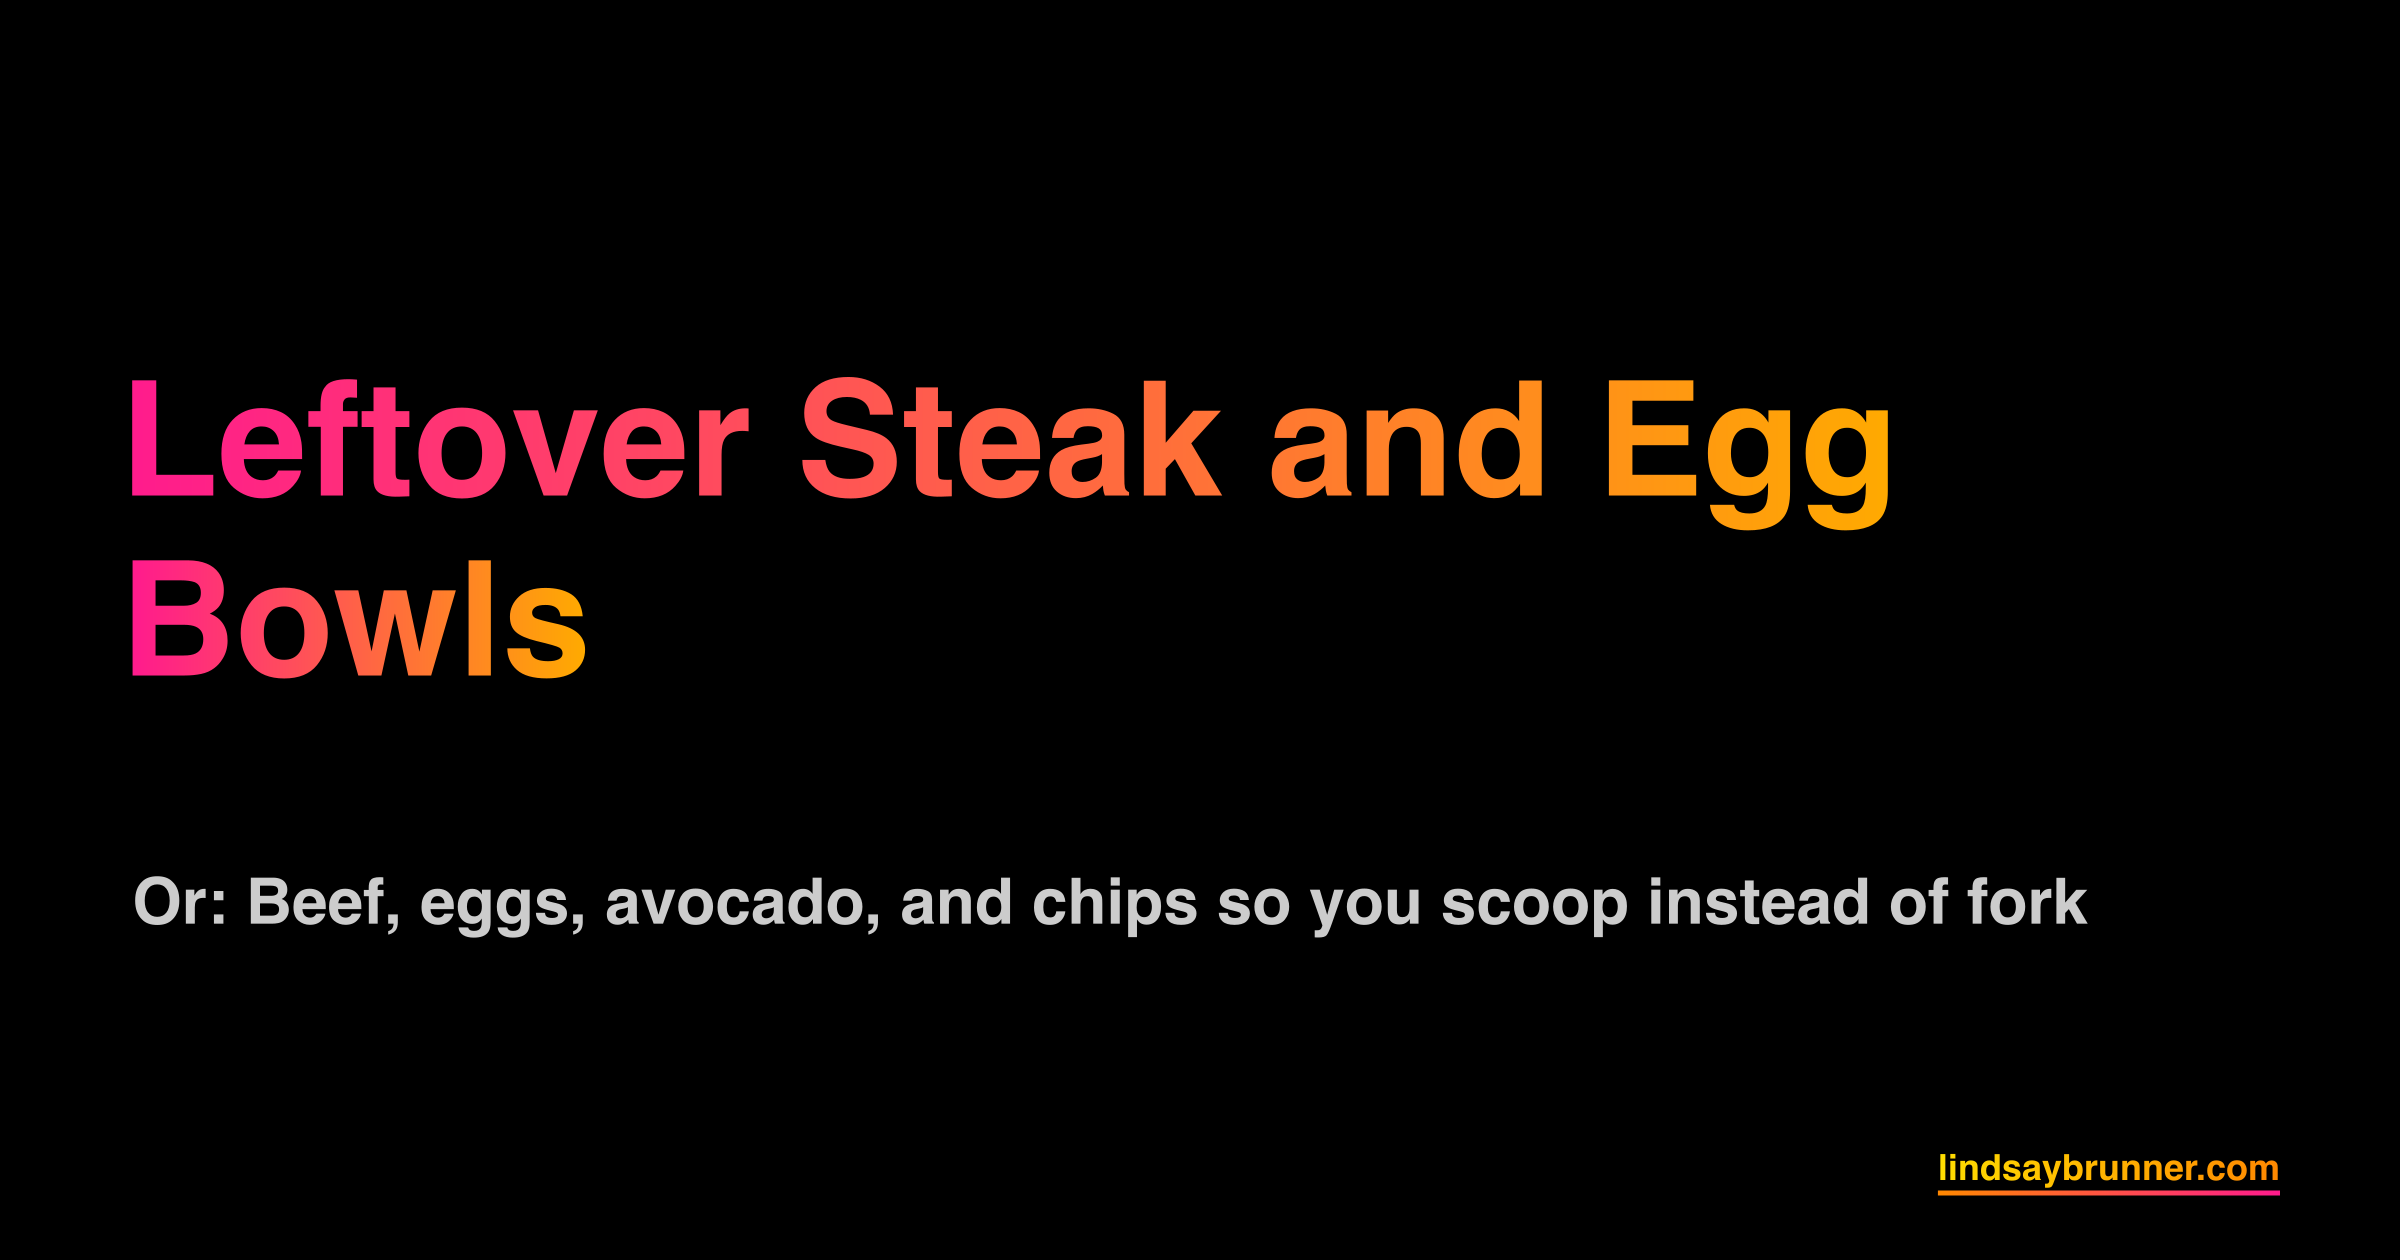
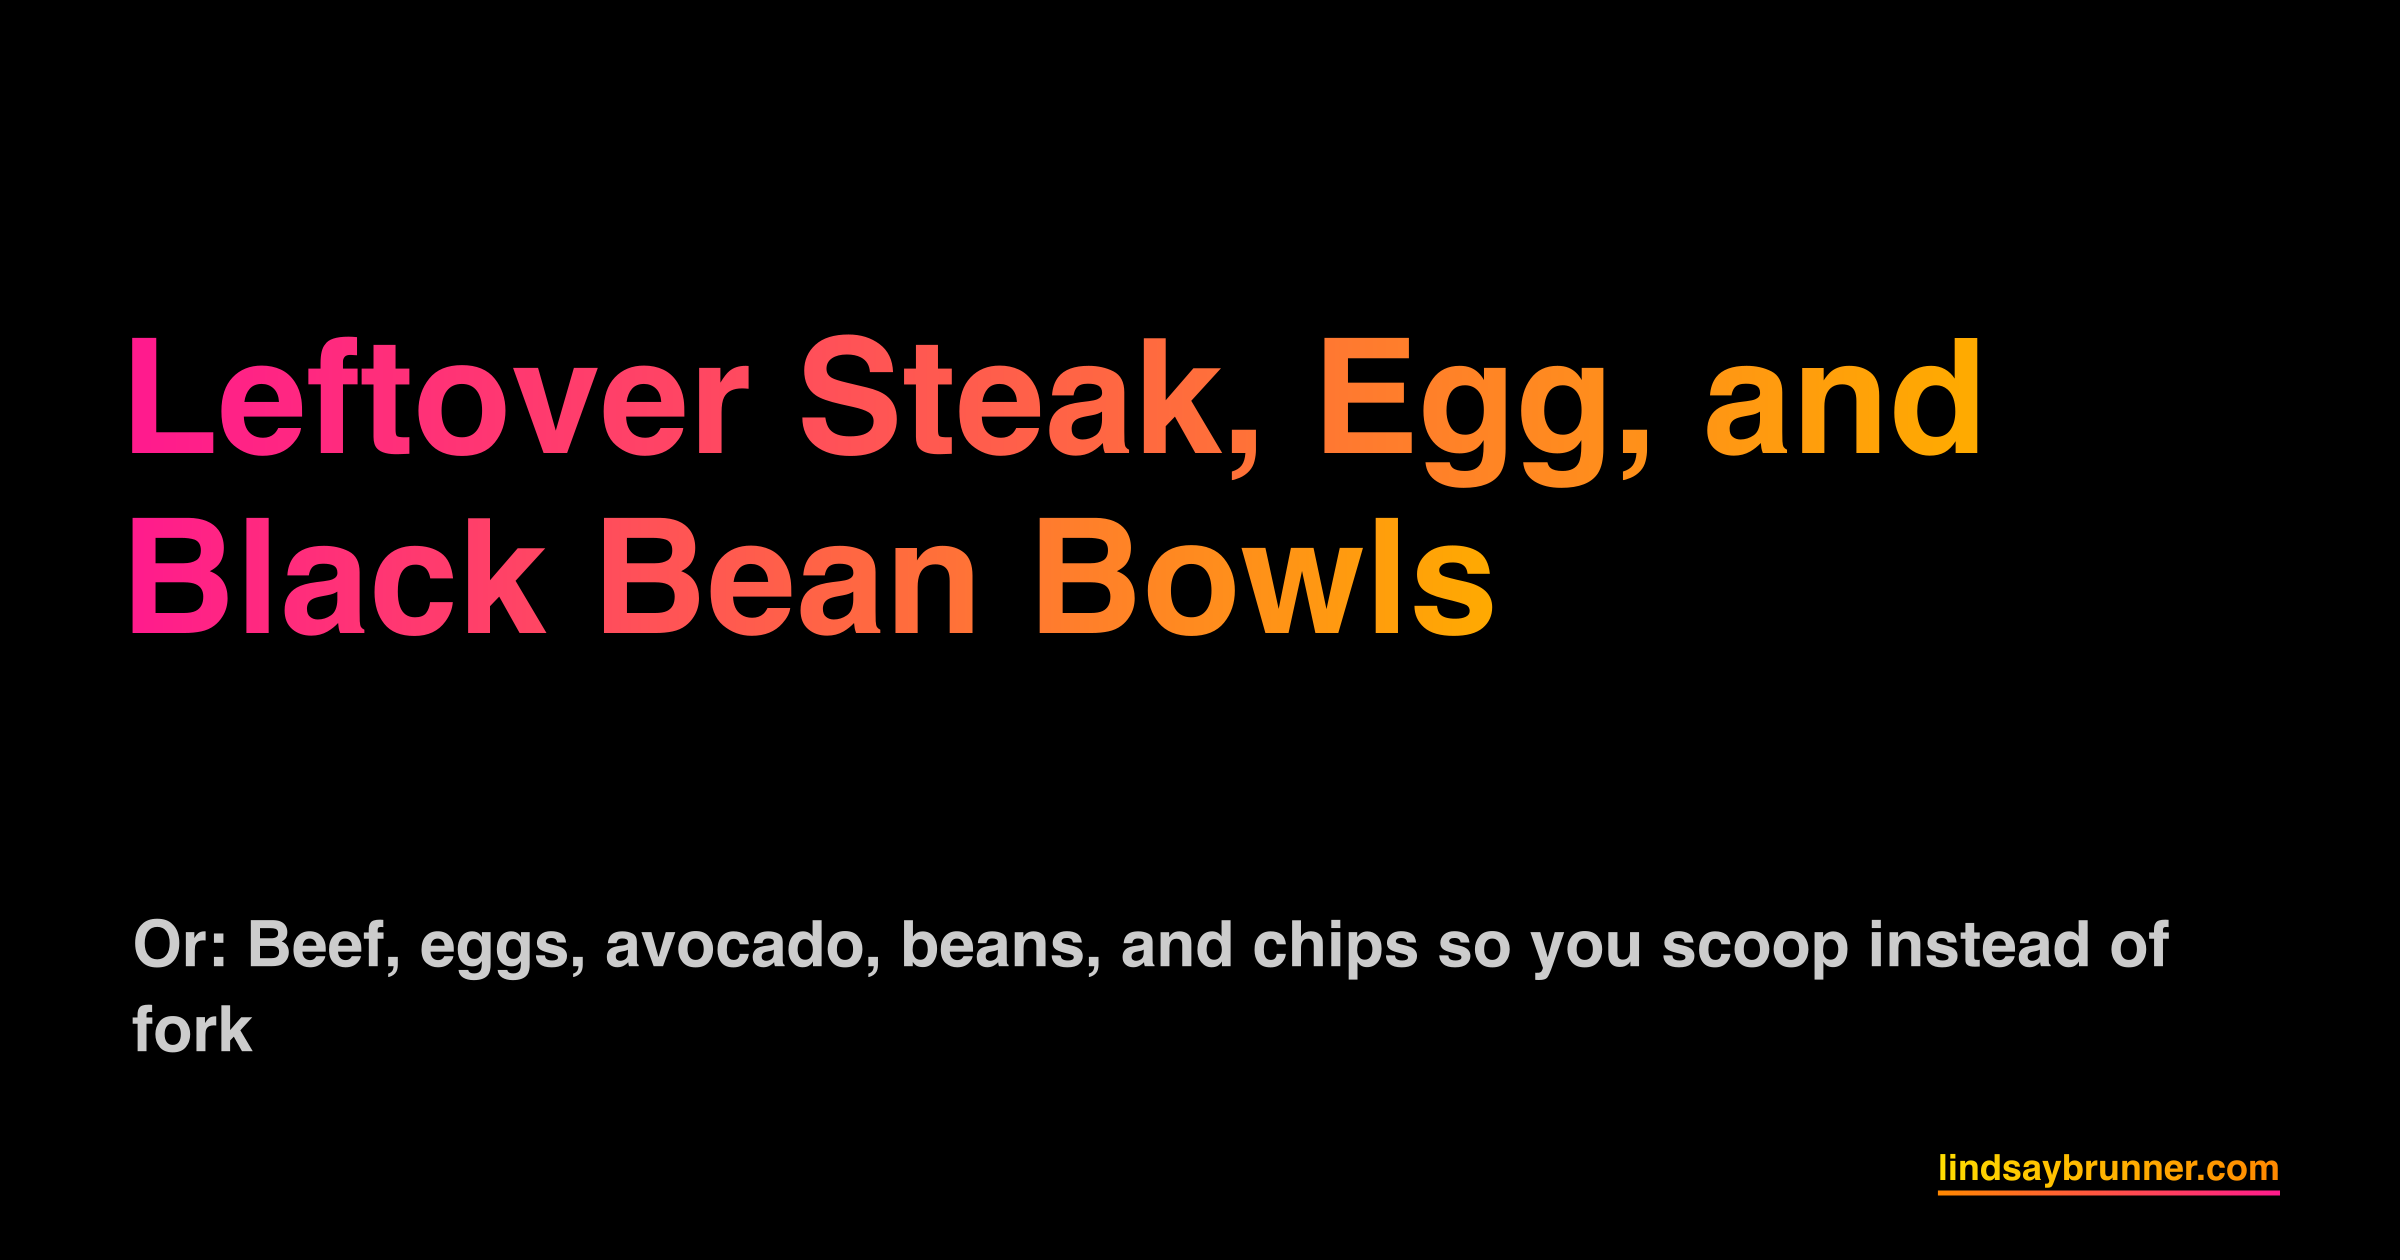
Leftover steak bowl: add black beans, separate pan, updated OG image

diff --git a/content/recipes/recipe-leftover-steak-egg-bowls.md b/content/recipes/recipe-leftover-steak-egg-bowls.md
@@ -1,14 +1,14 @@
 ---
-title: "Leftover Steak and Egg Bowls"
+title: "Leftover Steak, Egg, and Black Bean Bowls"
 date: 2026-02-08
 slug: "recipe-leftover-steak-egg-bowls"
-subtitle: "Or: Beef, eggs, avocado, and chips so you scoop instead of fork"
-description: "Beef and eggs as a fat-protein pairing with avocado, salsa, and sturdy tortilla chips. Warm the steak, keep the eggs soft, then assemble and scoop."
+subtitle: "Or: Beef, eggs, avocado, beans, and chips so you scoop instead of fork"
+description: "Beef and eggs with black beans, avocado, salsa, and chips. Warm the steak, soft eggs, build beans with acid, then assemble and scoop."
 draft: false
 social_image: "/images/social/recipe-leftover-steak-egg-bowls-og.png"
 prepTime: "PT10M"
-cookTime: "PT15M"
-totalTime: "PT25M"
+cookTime: "PT20M"
+totalTime: "PT30M"
 recipeYield: "2-4 bowls"
 recipeCategory: "Main Course"
 recipeCuisine: "American"
@@ -16,8 +16,10 @@ dietary: ["gluten-free", "dairy-free"]
 recipeIngredient:
   - "About 1½ lb cooked steak, ideally picanha, sliced thin against the grain"
   - "4 to 6 eggs, depending on how egg-forward you want the bowl"
+  - "1 can black beans, drained and rinsed"
   - "Butter or neutral oil"
   - "Salt and pepper"
+  - "A splash of red wine, sherry, or apple cider vinegar"
   - "1 to 2 ripe avocados, diced or sliced"
   - "Salsa you actually like, fresh or jarred"
   - "Tortilla chips, sturdy ones"
@@ -25,31 +27,34 @@ recipeIngredient:
 recipeInstructions:
   - "Prep the steak. Slice it thin against the grain while it is cold. Cold steak slices cleaner and more evenly, which matters for tenderness on the reheat."
   - "Warm the steak. Heat a skillet over medium. Add a little butter or oil. Add the steak in a single layer and warm it just until heated through. You are not browning it. Pull it from the pan and set aside."
-  - "Cook the eggs. In the same pan, lower the heat slightly. Add a touch more butter if needed. Beat the eggs with a pinch of salt and cook them slowly, stirring gently, until soft and custardy. The residual beef fat seasons them."
-  - "Assemble the bowl. Steak goes in first, then eggs. Top with avocado and salsa. Finish with a squeeze of lime if using. Taste and adjust salt."
+  - "Warm and build the beans. In a separate pan, add the black beans with a splash of water or stock and a pinch of salt. Warm gently, then mash about half the beans with the back of a spoon to create a loose, saucy texture. Take the pan off the heat and stir in a small splash of vinegar. Taste and adjust salt. Set aside until assembly."
+  - "Cook the eggs. In the main skillet, lower the heat slightly. Add a touch more butter or oil if needed. Beat the eggs with a pinch of salt and cook them slowly, stirring gently, until soft and custardy. The residual beef fat seasons them."
+  - "Assemble the bowl. Add the beans first, then steak, then eggs. Top with avocado and salsa. Finish with a squeeze of lime if using. Taste and adjust salt."
   - "Serve with chips. Scoop, do not dip timidly. The bowl is warm and rich; the chips are the crunch and contrast."
 ---
 
-Leftovers are fine. But leftover that become something NEW, in my book, are better. Last week we did picanha steaks for dinner. Today that leftover steak is becoming these breakfast-for-dinner bowls that my family always devours.
+Leftovers are fine. But leftovers that become something new are better. Last week we did picanha steaks for dinner. Today that leftover steak is becoming these breakfast-for-dinner bowls that my family always devours.
 
-Beef and eggs are a classic fat-protein pairing. Avocado smooths the edges. Salsa supplies acid and brightness so the whole thing does not drift into beige. Chips give you crunch and a way better delivery system than that boring old fork.
+Beef and eggs are a classic fat-protein pairing. Black beans add structure and bulk so the bowl eats like a real dinner, not just an indulgent scramble. Avocado smooths the edges. Salsa supplies acid and brightness so the whole thing does not drift into beige. Chips give you crunch and a way better delivery system than that boring old fork.
 
 ## Snapshot
 
-- **Implements:** cutting board; sharp knife; large skillet; bowls for serving
-- **Stove setting:** medium for warming steak, then slightly lower for eggs
+- **Implements:** cutting board; sharp knife; large skillet; small pan or second skillet for beans; bowls for serving
+- **Stove setting:** medium for warming steak and beans (in separate pans), then slightly lower for eggs
 - **Batch size:** 2–4 bowls (flexible by design)
 
 ## Ingredients
 
-Quantities are flexible by design. Adjust steak and egg amounts depending on how many you are feeding and how egg-forward you want the bowl.
+Quantities are flexible by design. Adjust steak, eggs, and beans depending on how many you are feeding and how rich you want the bowl.
 
 ### Main components
 
 - About 1½ lb cooked steak, sliced thin against the grain
 - 4 to 6 eggs, depending on how egg-forward you want the bowl
+- 1 can black beans, drained and rinsed
 - Butter or neutral oil
 - Salt and pepper
+- A splash of red wine, sherry, or apple cider vinegar
 - 1 to 2 ripe avocados, diced or sliced
 - Salsa you actually like, fresh or jarred
 - Tortilla chips, sturdy ones
@@ -70,15 +75,19 @@ Quantities are flexible by design. Adjust steak and egg amounts depending on how
 
    Heat a skillet over medium. Add a little butter or oil. Add the steak in a single layer and warm it just until heated through. You are not browning it. Pull it from the pan and set aside. This protects the doneness.
 
-3. **Eggs in beef fat**
+3. **Build the beans** (in a separate pan)
 
-   In the same pan, lower the heat slightly. Add a touch more butter if needed. Beat the eggs with a pinch of salt and cook them slowly, stirring gently. You want soft, custardy eggs. The residual beef fat seasons them in a way salt alone cannot.
+   In a small pan or second skillet over medium heat, add the black beans with a splash of water or stock and a pinch of salt. Warm gently. Mash about half the beans with the back of a spoon so you get a mix of whole beans and creamy, saucy ones. Take the pan off the heat and stir in a small splash of vinegar. Taste and adjust salt. Set aside until assembly.
 
-4. **Assemble your bowls**
+4. **Eggs in beef fat**
 
-   Steak goes in first, then eggs. Top with avocado and salsa. Finish with a squeeze of lime if using. Taste and adjust salt.
+   In the main skillet, lower the heat slightly. Add a touch more butter or oil if needed. Beat the eggs with a pinch of salt and cook them slowly, stirring gently. You want soft, custardy eggs. The residual beef fat seasons them in a way salt alone cannot.
 
-5. **Serve with chips**
+5. **Assemble your bowls**
+
+   Add the beans first, then steak, then eggs. Top with avocado and salsa. Finish with a squeeze of lime if using. Taste and adjust salt.
+
+6. **Serve with chips**
 
    Scoop, do not dip timidly. The bowl is warm and rich. The chips are the crunch and contrast.
 
@@ -86,20 +95,28 @@ Quantities are flexible by design. Adjust steak and egg amounts depending on how
 
 ## Notes, swaps, and guardrails
 
-### Egg texture matters
+### Beans want acid
 
-Overcooked eggs turn crumbly and fight the steak. Soft eggs act like a sauce and bind everything together.
+Black beans are earthy and starchy. A small splash of vinegar added off heat wakes them up and keeps the bowl from feeling heavy, especially next to eggs and avocado.
+
+### Smash half, not all
+
+Partially smashed beans create a built-in sauce that clings to steak, eggs, and chips. Fully mashed beans turn this into something else.
+
+### Egg texture still matters
+
+Overcooked eggs turn crumbly and fight everything else in the bowl. Soft eggs bind the whole thing together.
 
 ### Season in layers
 
-Salt the steak lightly, salt the eggs lightly. Do not expect salsa to carry the entire dish.
+Salt the steak, salt the beans, salt the eggs. Salsa is not responsible for fixing under-seasoning.
 
 ### Chip choice is structural
 
-Thin chips will collapse under warm eggs. Choose something thick enough to survive contact.
+Thin chips will collapse under warm beans and eggs. Choose something thick enough to survive scooping.
 
 ### Upgrade paths
 
 A little crumbled cheese adds salt and funk. Hot sauce adds heat. Stop before it turns into a fully loaded bowl situation.
 
-The dairy-free label applies to the base recipe (use neutral oil instead of butter, skip the optional cheese). Butter or cotija/feta add dairy.
+The dairy-free label applies to the base recipe. Use neutral oil instead of butter and skip the optional cheese. Butter or cotija or feta add dairy.
